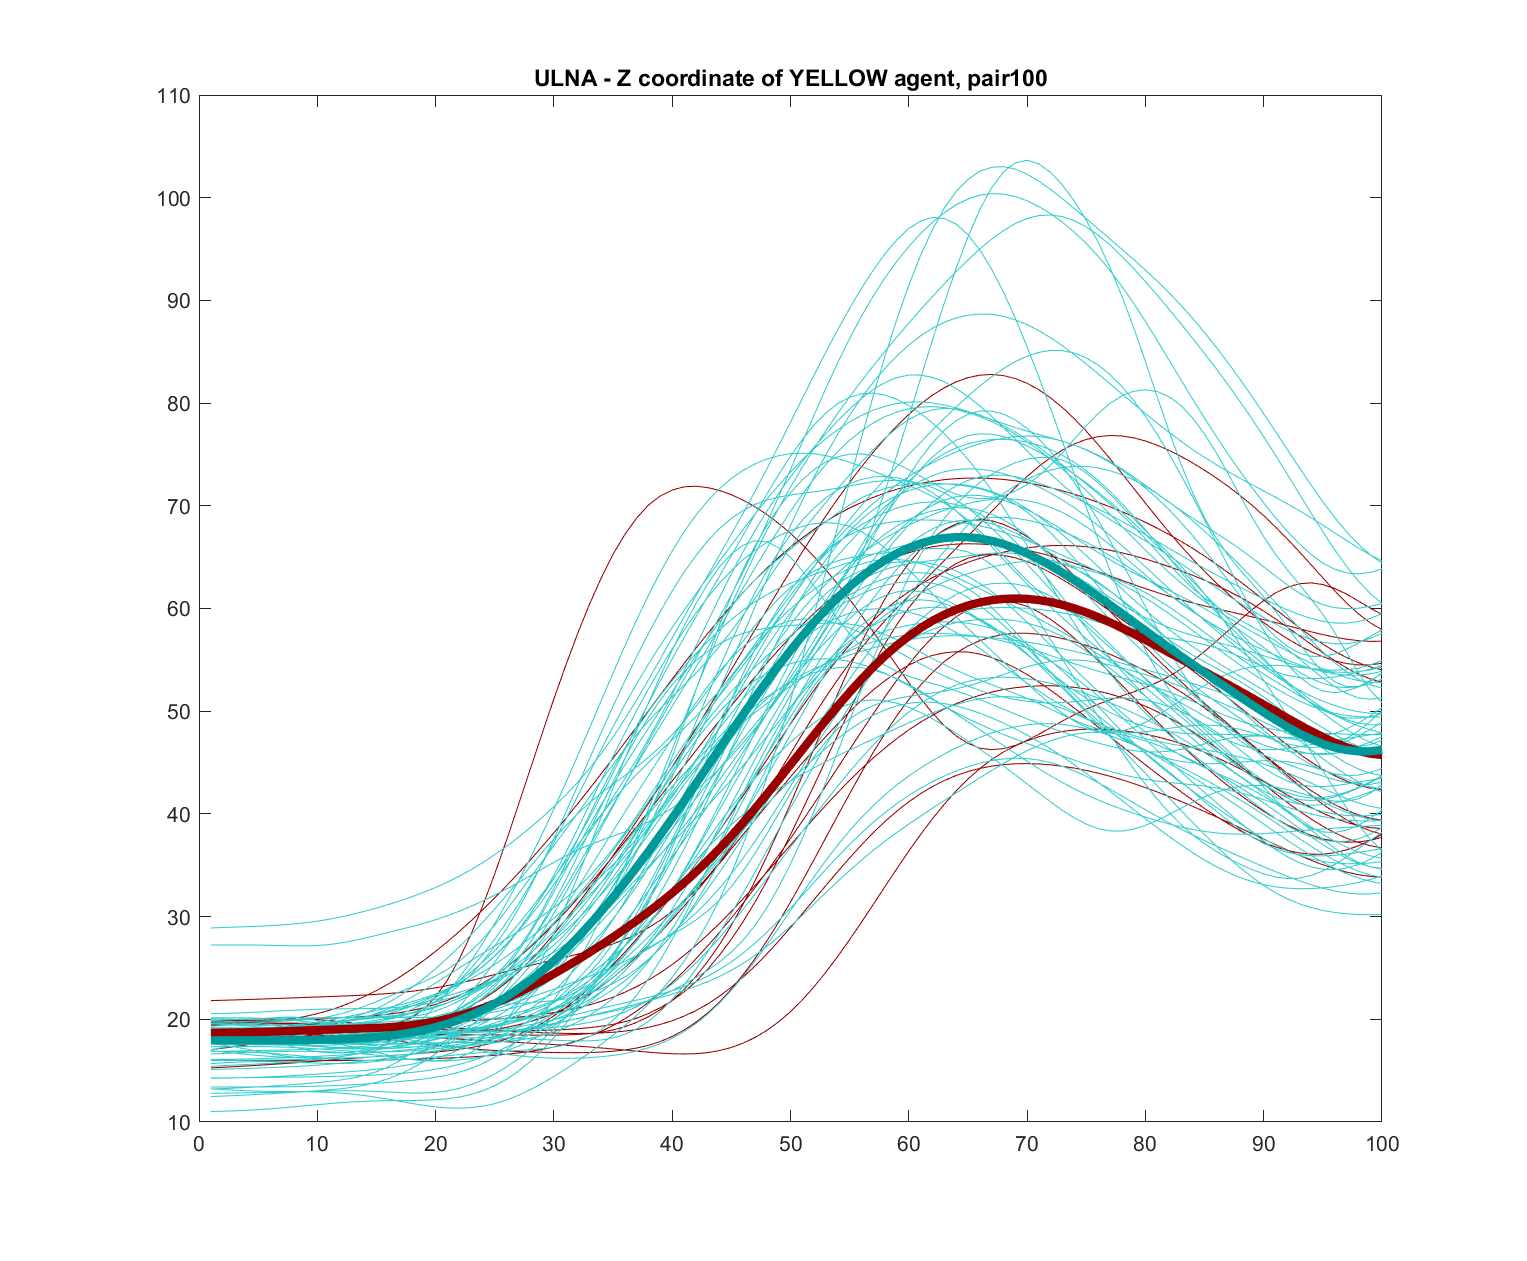
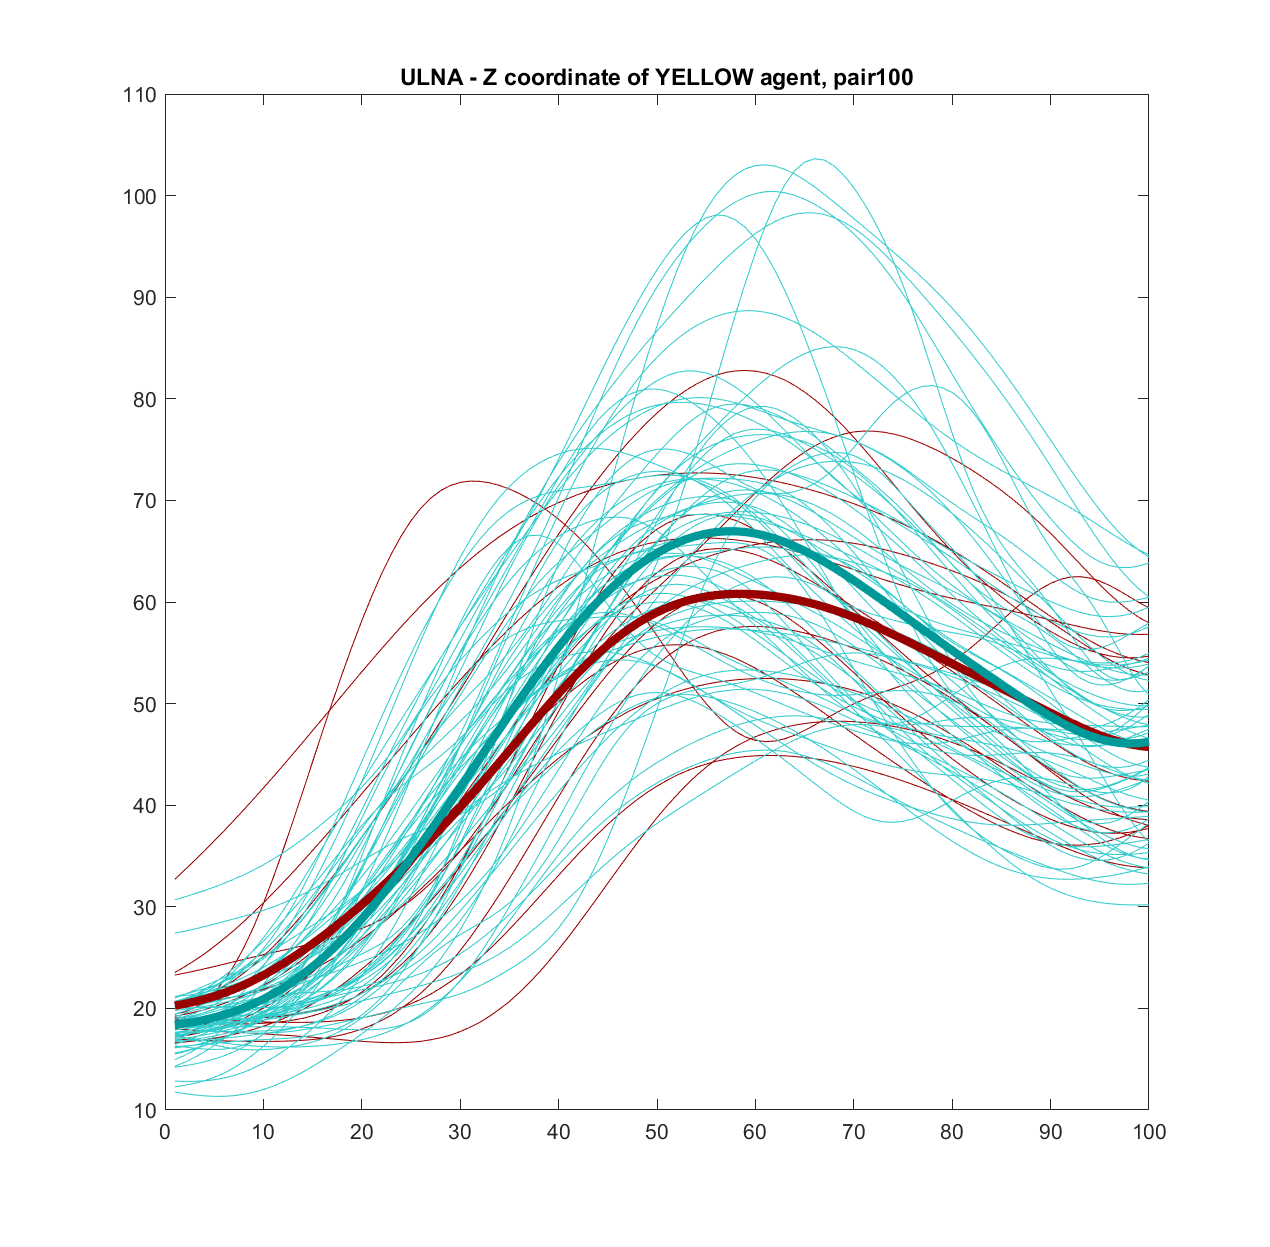
version in which we removed the 20 frames of the preacquisition from the startframe (so they are not in the normalized model

diff --git a/analyses/movement_var.m b/analyses/movement_var.m
@@ -1,6 +1,6 @@
 function [tindex,tulna,sindex,sulna,sdindex,...
-          time_traj_index,time_traj_ulna,...
-          spa_traj_index,spa_traj_ulna]=movement_var(sMarkers,t,SUBJECTS,p,agentExec,startFrame,endFrame)
+    time_traj_index,time_traj_ulna,...
+    spa_traj_index,spa_traj_ulna]=movement_var(sMarkers,t,SUBJECTS,p,agentExec,startFrame,endFrame)
 
 % CHECK index and wrist velocity threshold
 frameRate  = sMarkers{t}.info.TRIAL.CAMERA_RATE{:};
@@ -10,82 +10,94 @@ index      = sMarkers{t}.markers.([model_name '_index']);
 ulna       = sMarkers{t}.markers.([model_name '_ulna']);
 
 const = 0;%%remove last 'const' frames for index values
-range_index = startFrame:endFrame-const;
-i_index     = linspace(range_index(1),range_index(end));
-range_ulna  = startFrame:endFrame;
-i_ulna      = linspace(range_ulna(1),range_ulna(end));
+if endFrame > startFrame
+    range_index = startFrame:endFrame-const;
 
-%Calc kin vars - temporal variables
-%average speed
-va_index = mean(index.Vm(range_index));% 
-va_ulna  = mean(ulna.Vm(range_ulna));% 
+    i_index     = linspace(range_index(1),range_index(end));
+    range_ulna  = startFrame:endFrame;
+    i_ulna      = linspace(range_ulna(1),range_ulna(end));
 
-%average acceleration
-aa_index = mean(index.A(range_index));
-aa_ulna  = mean(ulna.A(range_ulna));
-%average jerk
-ja_index = mean(index.J(range_index));
-ja_ulna  = mean(ulna.J(range_ulna));
+    %Calc kin vars - temporal variables
+    %average speed
+    va_index = mean(index.Vm(range_index));%
+    va_ulna  = mean(ulna.Vm(range_ulna));%
 
-%group time variables 
-tindex = [va_index aa_index ja_index];
-tulna  = [va_ulna aa_ulna ja_ulna];
-% group time variables - all the trajectory
-time_traj_index = [interp1(range_index,index.Vm(range_index),i_index)'...
-                    interp1(range_index,index.A(range_index),i_index)'...
-                    interp1(range_index,index.J(range_index),i_index)'];
-time_traj_ulna  = [interp1(range_ulna,ulna.Vm(range_ulna),i_ulna)'...
-                    interp1(range_ulna,ulna.A(range_ulna),i_ulna)'...
-                    interp1(range_ulna,ulna.J(range_ulna),i_ulna)'];
+    %average acceleration
+    aa_index = mean(index.A(range_index));
+    aa_ulna  = mean(ulna.A(range_ulna));
+    %average jerk
+    ja_index = mean(index.J(range_index));
+    ja_ulna  = mean(ulna.J(range_ulna));
 
-%Calc kin vars - spatial variables
-%peak hight (z coord)
-pz_index = max(index.xyzf((range_index),3));
-pz_ulna  = max(ulna.xyzf((range_ulna),3));
-%minimum hight (z coord)
-mz_index = min(index.xyzf((range_index),3));
-mz_ulna  = min(ulna.xyzf((range_ulna),3));
-%mean hight (z coord)
-za_index = mean(index.xyzf((range_index),3));
-za_ulna  = mean(ulna.xyzf((range_ulna),3));
-%area of hight (z coord)
-az_index = trapz(index.xyzf((range_index),3));
-az_ulna  = trapz(ulna.xyzf((range_ulna),3));
+    %group time variables
+    tindex = [va_index aa_index ja_index];
+    tulna  = [va_ulna aa_ulna ja_ulna];
+    % group time variables - all the trajectory
+    time_traj_index = [interp1(range_index,index.Vm(range_index),i_index)'...
+        interp1(range_index,index.A(range_index),i_index)'...
+        interp1(range_index,index.J(range_index),i_index)'];
+    time_traj_ulna  = [interp1(range_ulna,ulna.Vm(range_ulna),i_ulna)'...
+        interp1(range_ulna,ulna.A(range_ulna),i_ulna)'...
+        interp1(range_ulna,ulna.J(range_ulna),i_ulna)'];
 
-%group spatial variables 
-sindex = [pz_index mz_index za_index az_index];
-sulna  = [pz_ulna mz_ulna za_ulna az_ulna];
+    %Calc kin vars - spatial variables
+    %peak hight (z coord)
+    pz_index = max(index.xyzf((range_index),3));
+    pz_ulna  = max(ulna.xyzf((range_ulna),3));
+    %minimum hight (z coord)
+    mz_index = min(index.xyzf((range_index),3));
+    mz_ulna  = min(ulna.xyzf((range_ulna),3));
+    %mean hight (z coord)
+    za_index = mean(index.xyzf((range_index),3));
+    za_ulna  = mean(ulna.xyzf((range_ulna),3));
+    %area of hight (z coord)
+    az_index = trapz(index.xyzf((range_index),3));
+    az_ulna  = trapz(ulna.xyzf((range_ulna),3));
 
-% group spatial variables - all the trajectory
-spa_traj_index = [interp1(range_index,index.xyzf((range_index),1),i_index)'...
-                    interp1(range_index,index.xyzf((range_index),2),i_index)'...
-                    interp1(range_index,index.xyzf((range_index),3),i_index)'];
-spa_traj_ulna  = [interp1(range_ulna,ulna.xyzf((range_ulna),1),i_ulna)'...
-                    interp1(range_ulna,ulna.xyzf((range_ulna),2),i_ulna)'...
-                    interp1(range_ulna,ulna.xyzf((range_ulna),3),i_ulna)'];
+    %group spatial variables
+    sindex = [pz_index mz_index za_index az_index];
+    sulna  = [pz_ulna mz_ulna za_ulna az_ulna];
 
-%average deviation from straight line (queer spectrum)
-%calculate coeffs of the straight line - only for index marker
-x1    = index.xyzf(startFrame,1);
-xend  = index.xyzf(endFrame-const,1);
-y1    = index.xyzf(startFrame,2);
-yend  = index.xyzf(endFrame-const,2);
-coefs = polyfit([x1, xend], [y1, yend], 1);
-sline = coefs(1).*index.xyzf((range_index),1) + coefs(2);
+    % group spatial variables - all the trajectory
+    spa_traj_index = [interp1(range_index,index.xyzf((range_index),1),i_index)'...
+        interp1(range_index,index.xyzf((range_index),2),i_index)'...
+        interp1(range_index,index.xyzf((range_index),3),i_index)'];
+    spa_traj_ulna  = [interp1(range_ulna,ulna.xyzf((range_ulna),1),i_ulna)'...
+        interp1(range_ulna,ulna.xyzf((range_ulna),2),i_ulna)'...
+        interp1(range_ulna,ulna.xyzf((range_ulna),3),i_ulna)'];
 
-%calculate the area of the trajectory deviation (x,y) - neg values? 
-x     = index.xyzf((range_index),1);
-y     = index.xyzf((range_index),2);
-% ard   = trapz(xa,abs(sline-y)); % or trapz(abs(x),abs(y1-y2))
+    %average deviation from straight line (queer spectrum)
+    %calculate coeffs of the straight line - only for index marker
+    x1    = index.xyzf(startFrame,1);
+    xend  = index.xyzf(endFrame-const,1);
+    y1    = index.xyzf(startFrame,2);
+    yend  = index.xyzf(endFrame-const,2);
+    coefs = polyfit([x1, xend], [y1, yend], 1);
+    sline = coefs(1).*index.xyzf((range_index),1) + coefs(2);
 
-d     = sqrt(sum(([x,y]-[x,sline]).^2,2));
-mxd   = max(d);
-mnd   = min(d);
-ad    = mean(d);
-ard   = trapz(d);
+    %calculate the area of the trajectory deviation (x,y) - neg values?
+    x     = index.xyzf((range_index),1);
+    y     = index.xyzf((range_index),2);
+    % ard   = trapz(xa,abs(sline-y)); % or trapz(abs(x),abs(y1-y2))
 
-% figure();plot(x,sline,'r');hold on;plot(x,y,'b');hold off
+    d     = sqrt(sum(([x,y]-[x,sline]).^2,2));
+    mxd   = max(d);
+    mnd   = min(d);
+    ad    = mean(d);
+    ard   = trapz(d);
 
-%group spatial deviation variables 
-sdindex = [ard mxd mnd ad];
+    % figure();plot(x,sline,'r');hold on;plot(x,y,'b');hold off
 
+    %group spatial deviation variables
+    sdindex = [ard mxd mnd ad];
+else
+    tindex  = [NaN NaN NaN];
+    tulna   = [NaN NaN NaN];
+    sindex  = [NaN NaN NaN];
+    sulna   = [NaN NaN NaN];
+    sdindex = [NaN NaN NaN];
+    time_traj_index = NaN*ones(100,3);
+    time_traj_ulna  = NaN*ones(100,3);
+    spa_traj_index  = NaN*ones(100,3);
+    spa_traj_ulna   = NaN*ones(100,3);
+end

diff --git a/analyses/ave_subj_plotting_ULNA.m b/analyses/ave_subj_plotting_ULNA.m
@@ -1,0 +1,110 @@
+%Script to plot kinematic variables trial-by-trial, per agent
+% 28.03.2023 (@@ -1,5 +1,41 @@)
+
+%% Temporal coordinates
+%Module of velocity(1st column in the of matrix 'all_time_traj_ulna_') blue/yellow agent for index marker
+threshold  = [];%2500;
+%blue
+agent2ndDec = 1;
+title_plot = ['ULNA - Velocity module of BLUE agent, pair' SUBJECTS{p}(2:end)];
+if flag_2nd
+    title_fig  = [SUBJECTS{p}(2:end) 'B_vm_ulna_dec2.png'];
+else
+    title_fig  = [SUBJECTS{p}(2:end) 'B_vm_ulna_.png'];
+end
+ave_subj_plotting_fun(all_time_traj_ulna_b,1,bConf,blue_Dec,SecondDec,agent2ndDec,title_plot,title_fig,path_temp,1,[],flag_2nd)
+%yellow
+agent2ndDec = 2;
+title_plot = ['ULNA - Velocity module of YELLOW agent, pair' SUBJECTS{p}(2:end)];
+if flag_2nd
+    title_fig  = [SUBJECTS{p}(2:end) 'Y_vm_ulna_dec2.png'];
+else
+    title_fig  = [SUBJECTS{p}(2:end) 'Y_vm_ulna_.png'];
+end
+ave_subj_plotting_fun(all_time_traj_ulna_y,1,yConf,yell_Dec,SecondDec,agent2ndDec,title_plot,title_fig,path_temp,1,[],flag_2nd)
+
+%Acceleration (2nd column in the of matrix 'all_time_traj_ulna_') blue/yellow agent for index marker
+threshold  = [];%[-30000 20000];
+%blue
+agent2ndDec = 1;
+title_plot = ['ULNA - Acceleration of BLUE agent, pair' SUBJECTS{p}(2:end)];
+if flag_2nd
+    title_fig  = [SUBJECTS{p}(2:end) 'B_a_ulna__dec2.png'];
+else
+    title_fig  = [SUBJECTS{p}(2:end) 'B_a_ulna_.png'];
+end
+ave_subj_plotting_fun(all_time_traj_ulna_b,2,bConf,blue_Dec,SecondDec,agent2ndDec,title_plot,title_fig,path_temp,1,[],flag_2nd)
+%yellow
+agent2ndDec = 2;
+title_plot = ['ULNA - Acceleration of YELLOW agent, pair' SUBJECTS{p}(2:end)];
+if flag_2nd
+    title_fig  = [SUBJECTS{p}(2:end) 'Y_a_ulna__dec2.png'];
+else
+    title_fig  = [SUBJECTS{p}(2:end) 'Y_a_ulna_.png'];
+end
+ave_subj_plotting_fun(all_time_traj_ulna_y,2,yConf,yell_Dec,SecondDec,agent2ndDec,title_plot,title_fig,path_temp,1,[],flag_2nd)
+
+%Jerk (3rd column in the of matrix 'all_time_traj_ulna_') blue/yellow agent for index marker
+threshold  = [];%[-5*10^5 7*10^5];
+%blue
+agent2ndDec = 1;
+title_plot = ['ULNA - Jerk of BLUE agent, pair' SUBJECTS{p}(2:end)];
+if flag_2nd
+    title_fig  = [SUBJECTS{p}(2:end) 'B_j_ulna__dec2.png'];
+else
+    title_fig  = [SUBJECTS{p}(2:end) 'B_j_ulna_.png'];
+end
+ave_subj_plotting_fun(all_time_traj_ulna_b,3,bConf,blue_Dec,SecondDec,agent2ndDec,title_plot,title_fig,path_temp,1,[],flag_2nd)
+%yellow
+agent2ndDec = 2;
+title_plot = ['ULNA - Jerk of YELLOW agent, pair' SUBJECTS{p}(2:end)];
+if flag_2nd
+    title_fig  = [SUBJECTS{p}(2:end) 'Y_j_ulna__dec2.png'];
+else
+    title_fig  = [SUBJECTS{p}(2:end) 'Y_j_ulna_.png'];
+end
+ave_subj_plotting_fun(all_time_traj_ulna_y,3,yConf,yell_Dec,SecondDec,agent2ndDec,title_plot,title_fig,path_temp,1,[],flag_2nd)
+
+
+%% Spatial coordinates
+%Height coordinate (z) of blue/yellow agent for index marker
+threshold = [];%[-50 200];
+%blue
+agent2ndDec = 1;
+title_plot = ['ULNA - Z coordinate of BLUE agent, pair' SUBJECTS{p}(2:end)];
+title_fig  = [SUBJECTS{p}(2:end) 'B_zcoord_ulna_.png'];
+ave_subj_plotting_fun(all_spa_traj_ulna_b,3,bConf,blue_Dec,SecondDec,agent2ndDec,title_plot,title_fig,path_temp,1,[],flag_2nd)
+%yellow
+agent2ndDec = 2;
+title_plot = ['ULNA - Z coordinate of YELLOW agent, pair' SUBJECTS{p}(2:end)];
+title_fig  = [SUBJECTS{p}(2:end) 'Y_zcoord_ulna_.png'];
+ave_subj_plotting_fun(all_spa_traj_ulna_y,3,yConf,yell_Dec,SecondDec,agent2ndDec,title_plot,title_fig,path_temp,1,[],flag_2nd)
+
+%Height coordinate (z) of blue/yellow agent for ulna marker
+threshold = [];%-20;
+%blue
+agent2ndDec = 1;
+title_plot = ['ULNA - Z coordinate of BLUE agent, pair' SUBJECTS{p}(2:end)];
+title_fig  = [SUBJECTS{p}(2:end) 'B_zcoord_ulna.png'];
+ave_subj_plotting_fun(all_spa_traj_ulna_b,3,bConf,blue_Dec,SecondDec,agent2ndDec,title_plot,title_fig,path_temp,1,[],flag_2nd)
+%yellow
+agent2ndDec = 2;
+title_plot = ['ULNA - Z coordinate of YELLOW agent, pair' SUBJECTS{p}(2:end)];
+title_fig  = [SUBJECTS{p}(2:end) 'Y_zcoord_ulna.png'];
+ave_subj_plotting_fun(all_spa_traj_ulna_y,3,yConf,yell_Dec,SecondDec,agent2ndDec,title_plot,title_fig,path_temp,1,[],flag_2nd)
+
+%XY plane blue/yellow agent for index marker
+%blue
+threshold  = [];%[-1050 -750 50 550];%[xleft xright ylow yhigh]
+agent2ndDec = 1;
+title_plot = ['ULNA - XY index trajectory of BLUE agent, pair' SUBJECTS{p}(2:end)];
+title_fig  = [SUBJECTS{p}(2:end) 'B_xy_ulna_.png'];
+ave_subj_plotting_fun(all_spa_traj_ulna_b,[],bConf,blue_Dec,SecondDec,agent2ndDec,title_plot,title_fig,path_temp,2,[],flag_2nd)
+%yellow
+threshold  = [];%[700 1100 50 500];
+agent2ndDec = 2;
+title_plot = ['ULNA - XY index trajectory of YELLOW agent, pair' SUBJECTS{p}(2:end)];
+title_fig  = [SUBJECTS{p}(2:end) 'Y_xy_ulna_.png'];
+ave_subj_plotting_fun(all_spa_traj_ulna_y,[],yConf,yell_Dec,SecondDec,agent2ndDec,title_plot,title_fig,path_temp,2,[],flag_2nd)
+
+

diff --git a/analyses/movement_onset.m b/analyses/movement_onset.m
@@ -50,7 +50,7 @@ end
 % reaction time
 %WARNING - from meeting of 24th of March we decided to take only the ulna
 %threshold -> 'startVector    = [indexTh(1),ulnaTh(1)];' becomes %'startVector    = ulnaTh(1);'
-startVector    = ulnaTh(1); % take the 10th value that has consecutively passed the threshold
+startVector    = ulnaTh(1); % take the 1st value that has passed the threshold
 [startFrame,ind_start] = min(startVector); % [min value, index of the minimum value]
 ind_start = 2;
 
@@ -68,7 +68,8 @@ if flag_pre %include preAcq because participants released button before decision
     rt_ulna  = (ulnaTh(1))/frameRate;
     rt_final = (startFrame)/frameRate;%rt_final should be = to the minimum value between rt_index or rt_ulna
 else
-    startFrame = (startFrame-preAcq);
+    
+    startFrame = (startFrame);%(startFrame-preAcq);
     rt_index   = (indexTh(1)-preAcq)/frameRate;
     rt_ulna    = (ulnaTh(1)-preAcq)/frameRate;
     rt_final   = startFrame/frameRate;%rt_final= to the minimum value between rt_index or rt_ulna

diff --git a/analyses/calc_kin_rt_mt.m b/analyses/calc_kin_rt_mt.m
@@ -50,7 +50,7 @@ SUBJECTS = [SUBJECTS(1) SUBJECTS(2) SUBJECTS(4)];%
 % - ODD TRIAL  - agent1(individual decision)-agent2(individual decision)-agent1(collective decision)
 % - EVEN TRIAL - agent2-agent1-agent2
 
-for p = 1:length(SUBJECTS)%
+for p = 1:length(SUBJECTS)
 
     disp(['Start ' SUBJECTS{p}(2:end)])
     clear v raw_clm
@@ -289,7 +289,7 @@ for p = 1:length(SUBJECTS)%
     
     % display exploratory plots
     if flag_plot
-        ave_subj_plotting;
+        ave_subj_plotting_ULNA;
     end
     clear sMarkers session bConf yConf blue_Dec yell_Dec
  
